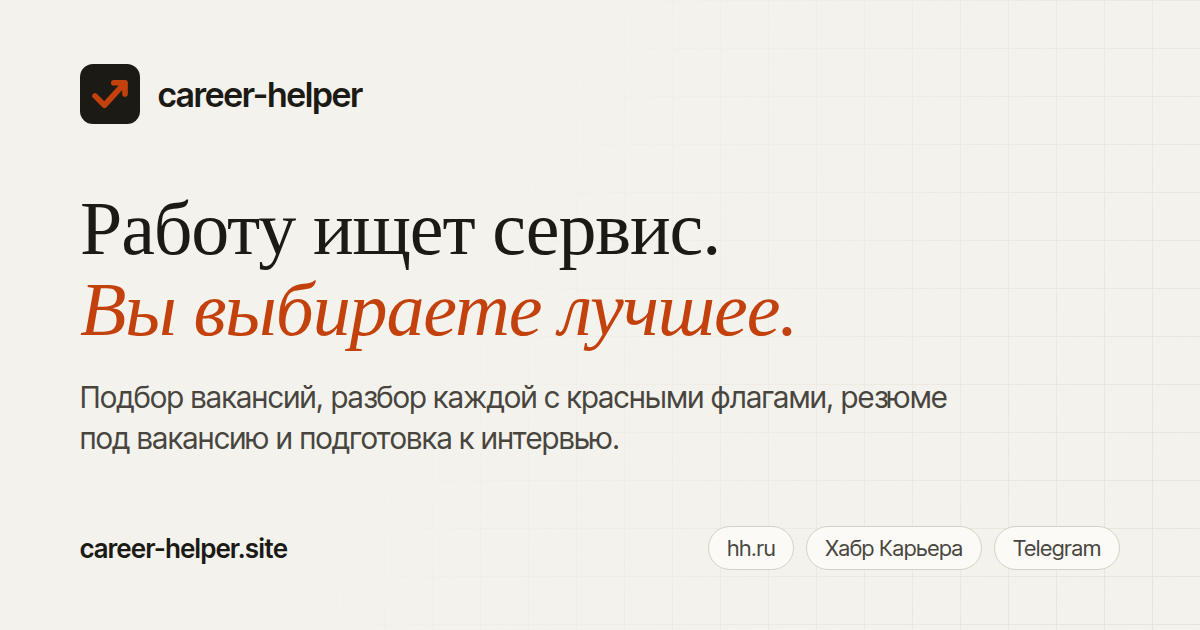
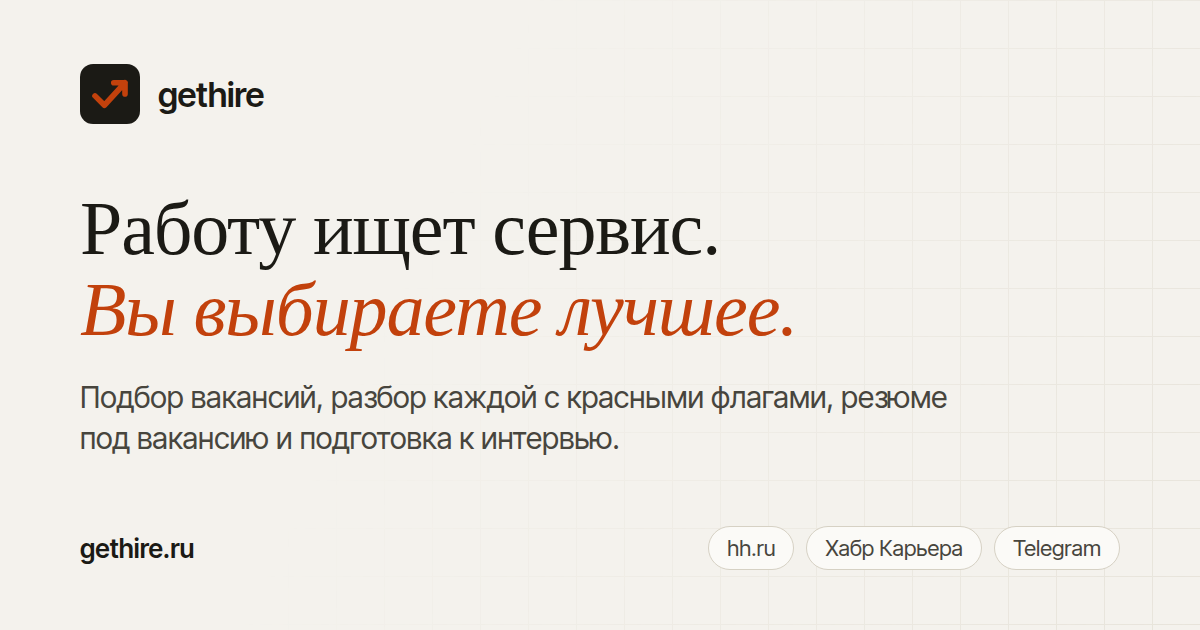
feat(site): move to gethire.ru and rename the brand to gethire
career-helper.site was blocked: its NS records are gone, so the site and
mail.career-helper.site mail stopped working. The prod .env sets neither
SITE_DOMAIN nor PUBLIC_URL, so the defaults in Caddyfile and config decide
the domain. The og card is re-rendered and its ?v= bumped so Telegram
drops the cached preview.

Changed region(s): [[0.1233, 0.1206, 0.3083, 0.181], [0.0617, 0.8444, 0.2467, 0.9048]]

diff --git a/frontend/index.html b/frontend/index.html
@@ -10,29 +10,29 @@
       content="Загрузите резюме — дальше всё само: подбор вакансий по множеству ресурсов, разбор каждой с красными флагами, резюме под вакансию и подготовка к интервью."
     />
     <link rel="icon" href="/favicon.svg" type="image/svg+xml" />
-    <link rel="canonical" href="https://career-helper.site/" />
+    <link rel="canonical" href="https://gethire.ru/" />
     <!-- How a link to the site looks when pasted into Telegram, VK or a chat. -->
     <meta property="og:type" content="website" />
-    <meta property="og:site_name" content="career-helper" />
+    <meta property="og:site_name" content="gethire" />
     <meta property="og:locale" content="ru_RU" />
-    <meta property="og:url" content="https://career-helper.site/" />
-    <meta property="og:title" content="career-helper — работу ищет сервис, вы выбираете лучшее" />
+    <meta property="og:url" content="https://gethire.ru/" />
+    <meta property="og:title" content="gethire — работу ищет сервис, вы выбираете лучшее" />
     <meta
       property="og:description"
       content="Загрузите резюме — дальше всё само: подбор вакансий по множеству ресурсов, разбор каждой с красными флагами, резюме под вакансию и подготовка к интервью."
     />
     <!-- Absolute, as the protocol requires. ?v= busts Telegram's per-URL cache
          when the picture changes; the source is og/og-card.html. -->
-    <meta property="og:image" content="https://career-helper.site/og-card.png?v=1" />
+    <meta property="og:image" content="https://gethire.ru/og-card.png?v=2" />
     <meta property="og:image:type" content="image/png" />
     <meta property="og:image:width" content="1200" />
     <meta property="og:image:height" content="630" />
     <meta
       property="og:image:alt"
-      content="career-helper: работу ищет сервис, вы выбираете лучшее"
+      content="gethire: работу ищет сервис, вы выбираете лучшее"
     />
     <meta name="twitter:card" content="summary_large_image" />
-    <meta name="twitter:image" content="https://career-helper.site/og-card.png?v=1" />
+    <meta name="twitter:image" content="https://gethire.ru/og-card.png?v=2" />
     <!--
       The landing and the cabinet share this one page, and this script picks
       which of them shows before the first paint.
@@ -81,7 +81,7 @@
   <body>
     <div id="landing" class="l">
       <header class="l-head">
-        <a class="l-brand" href="#top" aria-label="career-helper — в начало">
+        <a class="l-brand" href="#top" aria-label="gethire — в начало">
           <svg class="l-brand__mark" viewBox="0 0 32 32" aria-hidden="true">
             <rect width="32" height="32" rx="7" />
             <path
@@ -92,7 +92,7 @@
               stroke-linejoin="round"
             />
           </svg>
-          <span>career-helper</span>
+          <span>gethire</span>
         </a>
         <nav class="l-head__nav">
           <a class="l-link" href="/login">Войти</a>
@@ -380,7 +380,7 @@
           </h2>
           <a class="l-btn l-btn--big" href="/login">Попробовать</a>
           <footer class="l-foot">
-            © 2026 career-helper ·
+            © 2026 gethire ·
             <a href="/terms">Пользовательское соглашение</a> ·
             <a href="/privacy">Политика конфиденциальности</a>
           </footer>

diff --git a/frontend/og/og-card.html b/frontend/og/og-card.html
@@ -123,7 +123,7 @@
             stroke-linejoin="round"
           />
         </svg>
-        career-helper
+        gethire
       </div>
       <h1>Работу ищет сервис.<br /><em>Вы выбираете лучшее.</em></h1>
       <p class="lead">
@@ -131,7 +131,7 @@
         и подготовка к интервью.
       </p>
       <div class="foot">
-        <span class="url">career-helper.site</span>
+        <span class="url">gethire.ru</span>
         <span class="tags"><span>hh.ru</span><span>Хабр Карьера</span><span>Telegram</span></span>
       </div>
     </div>

diff --git a/frontend/src/pages/LegalPage.tsx b/frontend/src/pages/LegalPage.tsx
@@ -23,7 +23,7 @@ export const LEGAL_TITLES: Record<LegalDoc, string> = {
 /** The edition date; change it with the text. */
 const EDITION = '02.10.2026'
 /** The service as the templates name it, in place of their «ваш сайт/ тг бот». */
-const SERVICE = 'career-helper.site'
+const SERVICE = 'gethire.ru'
 
 /** Standalone, for a visitor without an account. */
 export function LegalScreen({ doc }: { doc: LegalDoc }) {

diff --git a/frontend/src/App.tsx b/frontend/src/App.tsx
@@ -116,7 +116,7 @@ function Cabinet() {
       <aside className="side">
         <div className="brand">
           <BrandMark />
-          <span className="brand__name">career-helper</span>
+          <span className="brand__name">gethire</span>
         </div>
 
         <nav className="side__nav" aria-label="Разделы">

diff --git a/frontend/src/components/Fallback.tsx b/frontend/src/components/Fallback.tsx
@@ -38,7 +38,7 @@ function Fallback({
       {full ? (
         <span className="brand fallback__brand">
           <BrandMark />
-          <span className="brand__name">career-helper</span>
+          <span className="brand__name">gethire</span>
         </span>
       ) : null}
       <div className="fallback__body">

diff --git a/frontend/src/pages/LoginPage.tsx b/frontend/src/pages/LoginPage.tsx
@@ -400,7 +400,7 @@ export function LoginHome() {
   return (
     <a className="brand login__home" href="/" title="О сервисе">
       <BrandMark />
-      <span className="brand__name">career-helper</span>
+      <span className="brand__name">gethire</span>
     </a>
   )
 }

diff --git a/app/services/mail.py b/app/services/mail.py
@@ -57,10 +57,10 @@ async def send_email(to: str, subject: str, text: str, html_body: str) -> None:
 
 def verification_letter(link: str) -> tuple[str, str, str]:
     """Subject, plain text and HTML of the address confirmation letter."""
-    subject = "Подтвердите почту для career-helper"
+    subject = "Подтвердите почту для gethire"
     text = (
         "Здравствуйте!\n\n"
-        "Чтобы закончить регистрацию в career-helper, откройте ссылку:\n"
+        "Чтобы закончить регистрацию в gethire, откройте ссылку:\n"
         f"{link}\n\n"
         "Ссылка действует сутки. Если вы не регистрировались, просто "
         "проигнорируйте это письмо — без подтверждения учётка не заработает.\n"
@@ -69,7 +69,7 @@ def verification_letter(link: str) -> tuple[str, str, str]:
     html_body = (
         '<div style="font-family:Arial,sans-serif;font-size:15px;line-height:1.5;color:#1a1a1a">'
         "<p>Здравствуйте!</p>"
-        "<p>Чтобы закончить регистрацию в career-helper, подтвердите почту:</p>"
+        "<p>Чтобы закончить регистрацию в gethire, подтвердите почту:</p>"
         f'<p><a href="{safe}" style="display:inline-block;padding:10px 18px;'
         'background:#1a1a1a;color:#ffffff;text-decoration:none;border-radius:6px">'
         "Подтвердить почту</a></p>"
@@ -84,10 +84,10 @@ def verification_letter(link: str) -> tuple[str, str, str]:
 
 def password_reset_letter(link: str) -> tuple[str, str, str]:
     """Subject, plain text and HTML of the password reset letter."""
-    subject = "Сброс пароля в career-helper"
+    subject = "Сброс пароля в gethire"
     text = (
         "Здравствуйте!\n\n"
-        "Кто-то — надеемся, вы — попросил сбросить пароль от career-helper. "
+        "Кто-то — надеемся, вы — попросил сбросить пароль от gethire. "
         "Чтобы задать новый, откройте ссылку:\n"
         f"{link}\n\n"
         "Ссылка действует час и срабатывает один раз. Если вы не просили "
@@ -97,7 +97,7 @@ def password_reset_letter(link: str) -> tuple[str, str, str]:
     html_body = (
         '<div style="font-family:Arial,sans-serif;font-size:15px;line-height:1.5;color:#1a1a1a">'
         "<p>Здравствуйте!</p>"
-        "<p>Кто-то — надеемся, вы — попросил сбросить пароль от career-helper.</p>"
+        "<p>Кто-то — надеемся, вы — попросил сбросить пароль от gethire.</p>"
         f'<p><a href="{safe}" style="display:inline-block;padding:10px 18px;'
         'background:#1a1a1a;color:#ffffff;text-decoration:none;border-radius:6px">'
         "Задать новый пароль</a></p>"

diff --git a/app/core/config.py b/app/core/config.py
@@ -60,7 +60,7 @@ class Settings(BaseSettings):
     mail_from: str = ""
     # Where the link in a letter points. The cabinet is what opens it, so this
     # is the site's address, not the API's.
-    public_url: str = "https://career-helper.site"
+    public_url: str = "https://gethire.ru"
     # How long a confirmation link works.
     email_token_hours: int = 24
     # How long a password reset link works. Shorter than a confirmation: the

diff --git a/docs/decisions.md b/docs/decisions.md
@@ -3520,3 +3520,28 @@ pytest на Postgres, миграции на пустой базе, сборка 
 
 **Не сделано.** «В избранное» одним кликом с карточки — пользователь отложил
 вопрос о наборе кнопок, взят минимальный.
+
+## 2026-10-08 — Новый домен gethire.ru вместо заблокированного career-helper.site
+
+`career-helper.site` заблокировали: у домена пропали NS, сайт и почта с
+`mail.career-helper.site` перестали работать. Владелец взял `gethire.ru` у
+Reg.ru.
+
+**Почему `.ru`, а не `.com`/`.net`.** Зону `.site` не брали повторно: дешёвые
+новые зоны чаще попадают под блокировки регистраторов и фильтры почты.
+Короткие английские имена в `.com`/`.net` почти все заняты (проверено через
+RDAP Verisign около 250 вариантов), а в `.ru` свободны, и `.ru` оплачивается
+российской картой. Слова на русском в латинице (`otkliq`, `rabotify`) владелец
+отверг.
+
+**Бренд следует домену:** в интерфейсе, письмах, og-карточке и юридических
+страницах `career-helper` → `gethire`. Бот Telegram (`@career_helper_robot`)
+не переименовывается: username бота меняется только новым ботом, а с ним —
+Client ID для входа через Telegram.
+
+**Что делается вне репозитория:** A-записи `@`/`www` у Reg.ru, домен
+`mail.gethire.ru` в Resend и `MAIL_FROM` в боевом `.env`, Trusted origins и
+Redirect URIs в BotFather, подтверждение в поисковиках. `SITE_DOMAIN` и
+`PUBLIC_URL` в боевом `.env` не заданы — домен берётся из значений по
+умолчанию (`Caddyfile`, `app/core/config.py`).
+

diff --git a/docs/04-roadmap.md b/docs/04-roadmap.md
@@ -2,7 +2,7 @@
 
 ## Итог MVP — 2026-10-01
 
-**MVP собран и стоит на `career-helper.site`** (ревизия `b03674b`). Годится для
+**MVP собран и стоит на `career-helper.site`** (ревизия `b03674b`; с 2026-10-08 — `gethire.ru`). Годится для
 тестеров, но **не для открытой регистрации**, хотя регистрация по почте и через
 Telegram уже включена: не закрыты блокеры ниже.
 
@@ -394,8 +394,8 @@ IT-роли.
       и, возможно, чтение своего резюме через OAuth.
 - [ ] Детали ЮKassa: самозанятый/ИП, чеки, оферта (к неделям 4–6).
 - [ ] Страна хостинга: РФ (проще ПД) vs зарубеж (гибкость с LLM).
-- [ ] Название и домен. Рабочий домен взят 2026-09-29: `career-helper.site` (временный,
-      см. `decisions.md`); название продукта открыто.
+- [x] Название и домен. С 2026-10-08 — `gethire.ru` и название gethire (прежний
+      `career-helper.site` заблокировали; см. `decisions.md`).
 - [ ] Нужна ли вторая модель для тейлоринга резюме, если Flash не тянет.
 - [ ] Набор статусов трекера: брать ли шкалу CO целиком или сократить под рынок РФ.
 - [ ] Что показывать без входа. Сейчас продукт начинается с профиля поиска, то есть

diff --git a/docs/ops.md b/docs/ops.md
@@ -25,9 +25,11 @@ ssh max@82.25.161.103 'docker ps --format "{{.Names}}\t{{.Status}}"'
 `~/deploy.sh` — скрипт выкатки **вне git**, `~/career-agent/.env` — секреты,
 контейнеры `career-agent-{api,worker,web,edge,db}-1`.
 
-**Домен — `https://career-helper.site`** (с 2026-09-29). HTTPS держит контейнер
-`edge` (Caddy, `Caddyfile` в корне), сертификат Let's Encrypt продлевается сам;
-запись в Cloudflare — только «DNS only».
+**Домен — `https://gethire.ru`** (с 2026-10-08; до того `career-helper.site`,
+его заблокировали). Регистратор и DNS — Reg.ru: A-записи `@` и `www` →
+`82.25.161.103` напрямую. HTTPS держит контейнер `edge` (Caddy, `Caddyfile` в
+корне), сертификат Let's Encrypt продлевается сам. Если DNS переедет в
+Cloudflare — только «DNS only», без прокси.
 
 **Порты.** Кабинет — 80/443 через `edge`: `http://82.25.161.103/` отдаёт SPA,
 а `/api/` nginx проксирует на контейнер api, чтобы браузер оставался на одном
